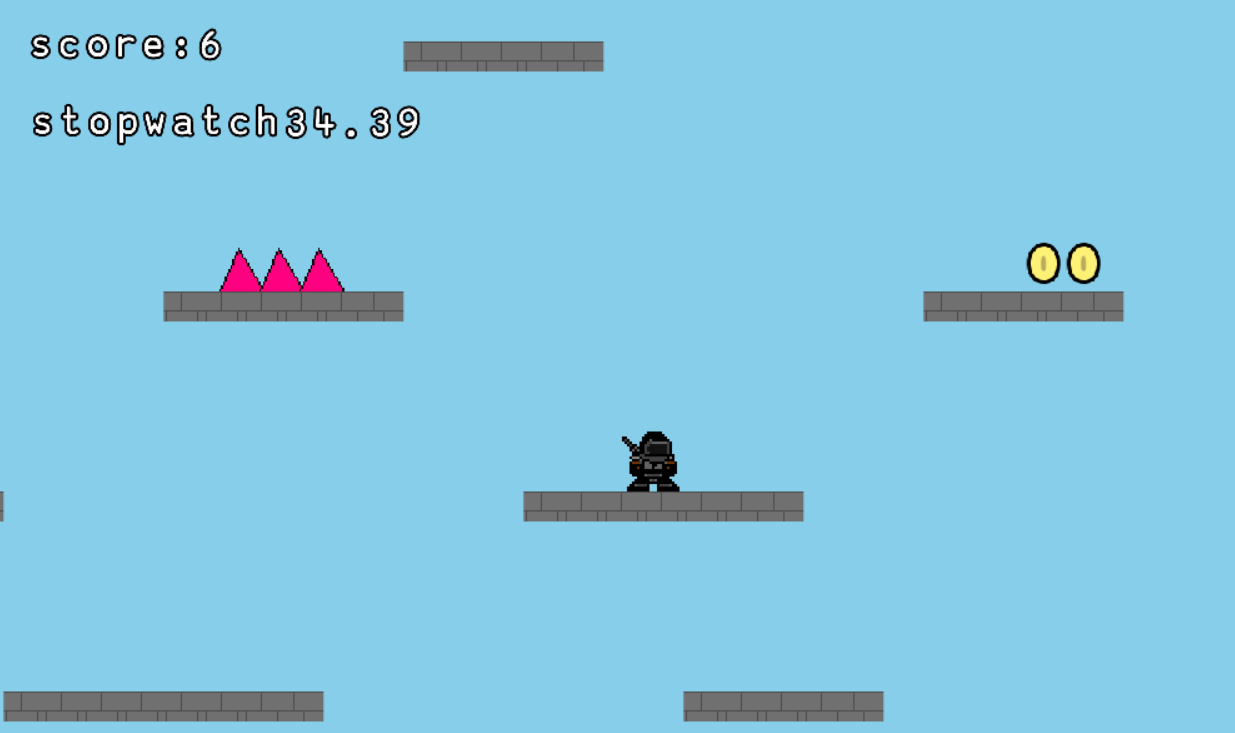
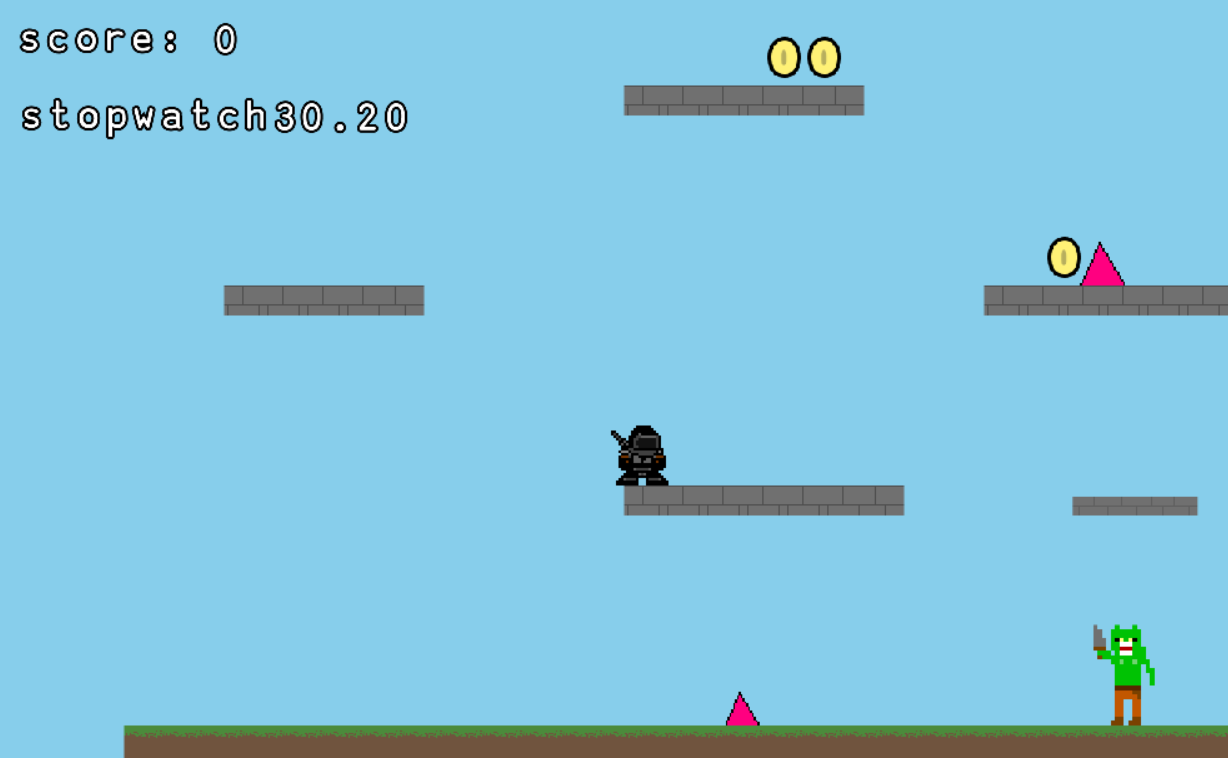
GitBook: [#603] No subject

diff --git a/4-evaluation/4.1-evaluation-of-success-criteria.md b/4-evaluation/4.1-evaluation-of-success-criteria.md
@@ -8,11 +8,11 @@
 | -------- | ------------------------------------------------------------------------- | ----------------------------------------------------------------------------------------------------------------------------------------------------------------------------------------------------------------------------------------------------------------------------------------- | --------------------------------------- |
 | 1        | Platforms                                                                 | This is to provide the player with a path to get to the exit whilst avoiding obstacles and have varying length to add complexity to the game                                                                                                                                              | Achieved in cycle 1                     |
 | 2        | A minimum of 5 levels of equal size                                       | This is to provide the player a joyful gaming experience                                                                                                                                                                                                                                  | Not achieved                            |
-| 3        | The levels get progressively more difficult                               | By making the levels progressively more difficult, it provides the player more of a challenge to get to the exit as well as not making the game trivial, which allows for more fun                                                                                                        | Achieved in cycle 7 , usability testing |
-| 4        | The moving platforms should enable the player to move between platforms   | By adding a moving platform, the game  provides the player with more of a risk factor such that if the player misses the jump on to or when jumping off it the player can fall and die                                                                                                    | Achieved in cycle 9                     |
+| 3        | The levels get progressively more difficult                               | By making the levels progressively more difficult, it provides the player more of a challenge to get to the exit as well as not making the game trivial, which allows for more fun                                                                                                        | Achieved in cycle 8 , usability testing |
+| 4        | The moving platforms should enable the player to move between platforms   | By adding a moving platform, the game  provides the player with more of a risk factor such that if the player misses the jump on to or when jumping off it the player can fall and die                                                                                                    | Achieved in cycle 6                     |
 | 5        | Break away platforms                                                      | By adding break away platforms the player will not be given the opportunity to spend an excessive amount of time on one platform thus making the player think on their feet on what their next move is going to be                                                                        | It was not Achieved                     |
-| 6        | Have a portal/exit  to take the player to the next level                  | The justification for a portal to next level is for a simplification factor. By having portals it makes it an easier transition to the next level instead of exiting the game and going to a new level. This provides the player with a better game play experience without the hindrance | Achieved in cycle 6                     |
-| 7        | the level should have enemies                                             | These will be progressively introduced into the levels where they appear spontaneously at specific areas of the levels. This is to provide the player with additional obstacles / challenges to overcome whilst playing the game .                                                        | Achieved in cycle 5 and 7               |
+| 6        | Have a portal/exit  to take the player to the next level                  | The justification for a portal to next level is for a simplification factor. By having portals it makes it an easier transition to the next level instead of exiting the game and going to a new level. This provides the player with a better game play experience without the hindrance | Achieved in cycle 7                     |
+| 7        | the level should have enemies                                             | These will be progressively introduced into the levels where they appear spontaneously at specific areas of the levels. This is to provide the player with additional obstacles / challenges to overcome whilst playing the game .                                                        | Achieved in cycle 5 and 8               |
 
 ###
 
@@ -53,8 +53,8 @@ This criterion has been achieved in cycle 7 where the enemy is introduced. The o
 | 8        | Having simple controls  | By having simple control (such as W,A,S,D) it will make it easy to understand movement of the  character which means that more time can be spent playing the game instead of learning the controls             | This was achieved in cycle 1           |
 | 9        | Scrolling camera        | When the player is moving in any direction the camera should keep the player in frame and make sure that the player does not go off the screen                                                                 | This was achieved in cycle 2           |
 | 10       | Double jump             | The game should have double jump to allow the player to get to the next platform whilst being able to avoid the obstacles                                                                                      | This was achieved in cycle 1           |
-| 11       | Player collision        | When the player comes in contact with an obstacle or an enemy the player should take damage to their health, subsequently leading to death if they undergo too many collisions                                 | This was achieved in cycle 2,3,5 and 6 |
-| 12       | Gravity                 | This is to provide the game with more of a realistic factor which will improve the game experience of the player                                                                                               | This was achieved in cycle 1 and 8     |
+| 11       | Player collision        | When the player comes in contact with an obstacle or an enemy the player should take damage to their health, subsequently leading to death if they undergo too many collisions                                 | This was achieved in cycle 2,3,5 and 7 |
+| 12       | Gravity                 | This is to provide the game with more of a realistic factor which will improve the game experience of the player                                                                                               | This was achieved in cycle 1 and 9     |
 | 13       | Coins system            | The player should be able to collect the coins during playing the level and the coins collected should be displayed whilst playing the game. This will be done when the player comes in contact with the coins | This was achieved in cycle 2           |
 | 14       | Health bar              | The health bar is used to indicate the player at what stage of health their character is at. This means that the player can be more cautious to not collide with objects (e.g spikes)                          | This was not  achieved                 |
 {% endtab %}
@@ -100,11 +100,11 @@ The health bar was included as a way for players to see the state of the charact
 {% tab title="First Tab" %}
 |    |                                                     |                                                                                                                                                                                          | when was it achieved                                 |
 | -- | --------------------------------------------------- | ---------------------------------------------------------------------------------------------------------------------------------------------------------------------------------------- | ---------------------------------------------------- |
-| 15 | Simple Menu                                         | When the player enters the game they should be presented with a simple menu that gives the option to play the game or tell the player the rules                                          | This was achieved in cycle 8 and 10                  |
+| 15 | Simple Menu                                         | When the player enters the game they should be presented with a simple menu that gives the option to play the game or tell the player the rules                                          | This was achieved in cycle 9 and 10                  |
 | 16 | Pause button                                        | The addition of a pause button during the game enables the player to take a break and rejoin when the player feels like it                                                               | This was not achieved                                |
 | 17 | Stopwatch                                           | By having an optional stopwatch, the player can be able to see how fast they can complete the level. This also gives the player some incentive to do better than before by trying again  | This was achieved in cycle 4                         |
 | 18 | A background that appeals to the player             | By adding a background that is welcoming, a better gaming experience is provided                                                                                                         | This was achieved in cycle 1  and usability testing  |
-| 19 | Game scene when the player wins and loses (or dies) | This allows the player to know whether they have completed the game or if they should retry it and give the player option to do so                                                       | This was achieved in cycles 6 and 9                  |
+| 19 | Game scene when the player wins and loses (or dies) | This allows the player to know whether they have completed the game or if they should retry it and give the player option to do so                                                       | This was achieved in cycles 7 and 9                  |
 {% endtab %}
 {% endtabs %}
 

diff --git a/design-and-development/cycle-1-5.md b/design-and-development/cycle-1-5.md
@@ -33,13 +33,31 @@ Another objective for this cycle is to add an acid bath. The acid bath uses the 
 ### Pseudocode
 
 ```
+function mp(speed = 100, dis = 10, dir = 1) {
+
+  return {
+    id: "mp",
+    require: ["pos", "area",],
+    add() {
+      this.on("collide", (obj, col) => {
+        if (col.isLeft() || col.isRight()) {
+          dir = -dir
+        }
+      })
+    },
+    update() {
+      this.move(speed * dir, 0)
+
+    },
+  }
+}
 ```
 
 ## Development
 
 ### Outcome
 
-Since the premise of the moving platform is to have platforms to move from left to right and back I decided to save time by using the same code that was used for the enemy cycles with the only alteration by that the speed with it moves and the distance as well. If you were to compare the two components you find that the moving platform has a fast speed, set at 100, to help the player to beat the clock that otherwise the player could find that by not using the moving platform they could complete the level faster. An additional feature that the enemy does not have is a distant component to the moving platform, this would limit the area the platform can cover to prevent the moving platform going of the game screen. This enabled me to create the moving platform function ("mp" for the variable name).&#x20;
+Since the premise of the moving platform is to have platforms to move from left to right and back I decided to save time by using the same code that was used for the enemy cycles with the only alteration by that the speed with it moves and the distance as well. If you were to compare the two components you find that the moving platform has a fast speed, set at 100, to help the player to beat the clock that otherwise the player could find that by not using the moving platform they could complete the level faster. An additional feature that the enemy does not have is a distance component to the moving platform, this would limit the area the platform can cover to prevent the moving platform going of the game screen. This enabled me to create the moving platform function ("mp" for the variable name).&#x20;
 
 <pre class="language-javascript"><code class="lang-javascript"><strong>// mp = moving platfrom 
 </strong><strong>function mp(speed = 100, dis = 10, dir = 1) {
@@ -108,7 +126,9 @@ As part of the success criteria it was mentioned to have different types of obst
 
 ### Challenges
 
-Description of challenges
+When doing some testing, I realised that the moving platform was not able to get from one point to the other point; this was primarily due to a missing function. Once I realised what the issue was I added a distance ( dis ) to the mp function. This ultimately fixed the issue thus allowing the moving platform to make it to both set points.
+
+
 
 ## Testing
 
@@ -120,7 +140,7 @@ Evidence for testing
 
 | Test | Instructions          | What I expect                                                                                                                                    | What actually happens                                                                                                                                                                                                                                                                               | Pass/Fail |
 | ---- | --------------------- | ------------------------------------------------------------------------------------------------------------------------------------------------ | --------------------------------------------------------------------------------------------------------------------------------------------------------------------------------------------------------------------------------------------------------------------------------------------------- | --------- |
-| 1    | Run code              | When the platforms move they should move from left to right and once they come in contact with the solid platform they should go the other way   | The platform works but not in the expected way. This is because when the platform moves from left to right it goes through the solid platfrom instead of bouncing back and going the way it came                                                                                                    | Fail      |
+| 1    | Run code              | When the platforms move they should move from left to right and once they come in contact with the solid platform they should go the other way   | The platform works but not in the expected way. This is because when the platform moves from left to right it goes through the solid platform instead of bouncing back and going the way it came                                                                                                    | Fail      |
 |      |                       | When the platform moves, they should move from left to right and once they come in contact with the solid platform, they should go the other way | After the first test failed I went into the code of the moving platform I found that I did not include the solid() function which allows the moving platform to be known as a solid. Once it was added, the platform goes left and right as expected                                                | Pass      |
 |      | Run code with player  | For this test, I wanted to see how the platform interacts with the player                                                                        | Through the test I found that there is bug with the platform. In which the player can make contact with the side of the moving platform as a substitute for the solid platform and the moving platform would think it had made contact with a solid platform.                                       | Fail      |
 |      | Run code with player  | For this test, I wanted to see how the platform interacts with the player                                                                        | When doing the last test I found a bug (mentioned in test 3). However whilst conducting other tests on the moving platform the result of it was fine as it allowed the player to jump on it as well move around on it with out causing any direct issue to the moving platform whilst in operation  | Pass      |
@@ -131,4 +151,4 @@ Evidence for testing
 
 <figure><img src="../.gitbook/assets/image (27).png" alt=""><figcaption></figcaption></figure>
 
-![](<../.gitbook/assets/image (3).png>)
+<figure><img src="../.gitbook/assets/image (3).png" alt=""><figcaption></figcaption></figure>

diff --git a/design-and-development/cycle-1-8.md b/design-and-development/cycle-1-8.md
@@ -26,10 +26,10 @@ Additionally, the second aim that I have for this cycle is to add a death scene 
 
 ### Key Variables
 
-| Variable Name | Use                                                                                                                                                                               |
-| ------------- | --------------------------------------------------------------------------------------------------------------------------------------------------------------------------------- |
-| 2000          | This is a const variable that is used as a benchmark for the falling death feature in which if the player falls below 2000 the pixle  mark the lose scene is shown to the player  |
-|               |                                                                                                                                                                                   |
+| Variable Name | Use                                                                                                                                                                            |
+| ------------- | ------------------------------------------------------------------------------------------------------------------------------------------------------------------------------ |
+| 2000          | This is a const variable  is used as a benchmark for the falling death feature in which if the player falls below 2000 the pixles  mark the lose scene is shown to the player  |
+|               |                                                                                                                                                                                |
 
 ### Pseudocode
 
@@ -102,7 +102,7 @@ To enable the player to get main menu i have Incorporated a click button via the
 
 ### Challenges
 
-
+A small challenge I faced during the testing of the falling death feature was that the falling death was not timed correctly , in which that player could jump off a platform onto a lower platform of a short distance and they could die or the player could die after a long time if they jumped off the level . To solve this I change the const variable value in increments of 100 until I find the correct value that enables the player to die after going below the ground or falling for a long time.
 
 ## Testing
 
@@ -110,11 +110,11 @@ Evidence for testing
 
 ### Tests
 
-| Test | Instructions   | What I expect                                                                                                                           | What actually happens                                                                                                                                                              | Pass/Fail |
-| ---- | -------------- | --------------------------------------------------------------------------------------------------------------------------------------- | ---------------------------------------------------------------------------------------------------------------------------------------------------------------------------------- | --------- |
-| 1    | Falling death  | When the player falls outside of the level the player should die and the death screen should show after a certain distance of falling.  | When the player strays too far away from the level, they will die after a short distance.                                                                                          | Fail      |
-| 2    | Falling death  | When the player falls outside of the level the player should die and the death screen should show after a certain distance of falling.  | When the player jumps off the level, the player is dead when they go below the base floor of the game as well as that the player will die if they are falling for a long distance. | Pass      |
-| 3    | Death scene    | When the player collides with a dangerous object, the death screen should appear.                                                       | When the player dies the death screen appears.                                                                                                                                     | Pass      |
+| Test | Instructions   | What I expect                                                                                                                           | What actually happens                                                                                                                                                     | Pass/Fail |
+| ---- | -------------- | --------------------------------------------------------------------------------------------------------------------------------------- | ------------------------------------------------------------------------------------------------------------------------------------------------------------------------- | --------- |
+| 1    | Falling death  | When the player falls outside of the level the player should die and the death screen should show after a certain distance of falling.  | When the player strays too far away from the level, they will die after a short distance.                                                                                 | Fail      |
+| 2    | Falling death  | When the player falls outside of the level the player should die and the death screen should show after a certain distance of falling.  | When the player jumps off the level, the player is dead when they go below the base floor of the game as well as that the player will die if they are falling for a long  | Pass      |
+| 3    | Death scene    | When the player collides with a dangerous object, the death screen should appear.                                                       | When the player dies the death screen appears.                                                                                                                            | Pass      |
 
 ### Evidence
 

diff --git a/design-and-development/cycle-1-4.md b/design-and-development/cycle-1-4.md
@@ -73,7 +73,7 @@ Once the enemy was added to the game it was needed for the enemy have a purpose 
 
 
 ```javascript
-function patrol(speed =75 , dir = 1) {
+function patrol(speed =75 ,dis= 16 , dir = 1) {
 
 	return {
 		id: "patrol",
@@ -116,7 +116,7 @@ With the new feature developed I proceeded to incorporate everything together in
 
 ### Challenges
 
-One of the challenges I have encountered is&#x20;
+One of the challenges I encountered whilst implementing the enemy into my game was that the enemy would fall off the platform whilst in testing . I overcame these challenges in two ways . One way was to shorten the distant the enemy travels this had worked successfully whilst the second was done in a create way in which i created on pixel block that would be place exactly where i want the enemy to stop and turn around however one floor i found this method was that the player would be affected by the small block when trying to jump onto the platform the block would run the risk of stop the player trying to get one  therefore i discontinued the second idea.&#x20;
 
 ### Evidence
 
@@ -126,9 +126,10 @@ Evidence for testing
 
 ### Tests
 
-| Test | Instructions | What I expect                                                | What actually happens                                                                                    | Pass/Fail |
-| ---- | ------------ | ------------------------------------------------------------ | -------------------------------------------------------------------------------------------------------- | --------- |
-| 1    | The  bot     | The bot should move between two boundaries                   | The bot moves between the set boundaries                                                                 | pass      |
-| 2    | The bot      | The bot should flip its body when it is changing directions  | The bot moves left and right but when it changes directions it does not move the way the body is facing  | fail      |
+| Test | Instructions                    | What I expect                                                                                                                                                       | What actually happens                                                                                                                                                                                    | Pass/Fail |
+| ---- | ------------------------------- | ------------------------------------------------------------------------------------------------------------------------------------------------------------------- | -------------------------------------------------------------------------------------------------------------------------------------------------------------------------------------------------------- | --------- |
+| 1    | run the code                    | the to appear where it is placed on the map as well has eleimate the player if the player comes in contect with the enemy                                           | the player gets eliminated by the enemy when contact is made as well a the enemy appear on the selected location.                                                                                        | pass      |
+| 2    | movement run test               | after the basics of the enemy is established, i am now test if the enemy will move from in the designated area . such as a patrol of the area                       | the enemy moves around . However the enemy when placed on a platform the enemy falles if the platform                                                                                                    | fail      |
+| 3    | movement run test ( second try) | after the basics of the enemy is established, i am now test if the enemy will move from in the designated area in a specific pattern . such as a patrol of the area | After seen the failiure of the fisrt test i went back to the code and altered the distant that the enemy can travel once that was done the enemy can movie around on the platform with out falling of it | pass      |
 
 ![](<../.gitbook/assets/image (8).png>)

diff --git a/design-and-development/cycle-1-3.md b/design-and-development/cycle-1-3.md
@@ -72,7 +72,7 @@ there is not much different between when adding the output read out function for
 
 ### Challenges
 
-One of the challenges that I faced during the implant of the stopwatch is correctly positioning the stopwatch meter on the screen so that the player can see the stopwatch easily. I overcame this by adjusting the size of the font that was used and adjusting the positions of it as well as placing the stopwatch below another instrument that was displayed to the player. &#x20;
+One of the challenges that I faced during the implant of the stopwatch is correctly positioning the stopwatch meter on the screen so that the player can see the stopwatch easily. I overcame this by adjusting the size of the font that was used and adjusting the positions of it as well as placing the stopwatch below another instrument that was displayed to the player. Additional one challenge i am still facing is one where there is no space between the word "stopwatch " and the counter .i still yet to see a fix to this solution i may be a simple fix.
 
 ## Testing
 
@@ -80,10 +80,10 @@ I tested if the spike worked by colliding with a spike, this resulted in the pla
 
 ### Tests
 
-| Test | Instructions      | What I expect                                                                                                                                                                                                       | What actually happens                                                                                                                                      | Pass/Fail |
-| ---- | ----------------- | ------------------------------------------------------------------------------------------------------------------------------------------------------------------------------------------------------------------- | ---------------------------------------------------------------------------------------------------------------------------------------------------------- | --------- |
-| 1    | Added the spikes  | The spikes will function in a manner where when the player comes in contact with the spikes the player will take damage which will lead to death if the player comes in contact with it in more than one occasion.  | The spikes were added successfully  however when the player comes in contact with the spikes the player does not take any damages to the player's health.  | Fail      |
-| 2    | Stopwatch         | When the player starts the game the stopwatch will start and once the player has completed he game by finishing the level the stop watch will stop.                                                                 | The stopwatch worked as expected.                                                                                                                          | Pass      |
+| Test | Instructions        | What I expect                                                                                                                                       | What actually happens                                                                                                | Pass/Fail |
+| ---- | ------------------- | --------------------------------------------------------------------------------------------------------------------------------------------------- | -------------------------------------------------------------------------------------------------------------------- | --------- |
+| 1    | stopwatch appearing | when player start the game the stopwatch show appear in the designated location                                                                     | The stopwatch appears in the designated location however the when recording time it does not separated from the text | fail      |
+| 2    | Stopwatch working   | When the player starts the game the stopwatch will start and once the player has completed he game by finishing the level the stop watch will stop. | The stopwatch worked as expected.                                                                                    | Pass      |
 
 ### Evidence
 

diff --git a/2-design-and-development/cycle-1.md b/2-design-and-development/cycle-1.md
@@ -138,16 +138,16 @@ Once I had completed creating the essential assets I need for the game for the e
 
 ```javascript
 const map = [
-  '                                                                         @      ',
+  '                                                                              ',
   '         ppp              ppp                pp                         ppppp',
   '                                                                             ',
-  '                                                           ccc                 ',
+  '                                                                            ',
   '                                                          pppp                   ',
-  ' ppp            ppppp        j              ppp                               ',
+  ' ppp            ppppp                      ppp                               ',
   '                                                                             ',
   '                                                                             ',
-  '                     sccs             cscs                         ccssc           ',
-  '      pppp          ppppp           ppppp          a        ppppppppppppp   ',
+  '                                                                            ',
+  '      pppp          ppppp           ppppp                  ppppppppppppp   ',
   '                                                                             ',
   '                                                                             ',
   '                                                   pppp                          ',
@@ -156,20 +156,20 @@ const map = [
   ' pppp                                                                        ',
   '                                                                             ',
   '                                                                             ',
-  '                cc               ss                  sss                ccc     ',
+  '                                                                              ',
   '             ppppp             ppppp                ppppp              pppp ',
   '                                                                             ',
   '                                                                              ',
-  '                       cs                   ss                                   ',
+  '                                                                             ',
   '   pppp               pppppp             pppppp              pppppp         ',
   '                                                                              ',
   '                                                                             ',
   '                                                                             ',
-  '             pppppp           m                 ppppppp          pppp      ',
+  '             pppppp                            ppppppp          pppp      ',
   '                                                                             ',
   '                                                                             ',
   '                                                                             ',
-  '               s            e    s                             e          s   ',
+  '                                                                         ',
   '============================================================================',
 ]
 
@@ -290,5 +290,4 @@ The challenge of this cycle was setting up a movement feature for the first char
 
 ### Evidence
 
-![](<../.gitbook/assets/image (1).png>)
-
+<figure><img src="../.gitbook/assets/image (1).png" alt=""><figcaption></figcaption></figure>

diff --git a/design-and-development/cycle-1-6.md b/design-and-development/cycle-1-6.md
@@ -105,10 +105,11 @@ Evidence for testing
 
 ### Tests
 
-| Test | Instructions                  | What I expect                                                                         | What actually happens  | Pass/Fail |
-| ---- | ----------------------------- | ------------------------------------------------------------------------------------- | ---------------------- | --------- |
-| 1    | The portal to the next level  | When the player goes through the portal the player should be taken to the next level  | Does what is mentioned | pass      |
-| 2    |                               |                                                                                       |                        | Pass      |
+| Test | Instructions                  | What I expect                                                                                                                                             | What actually happens  | Pass/Fail |
+| ---- | ----------------------------- | --------------------------------------------------------------------------------------------------------------------------------------------------------- | ---------------------- | --------- |
+|      | run code                      | the portal should appear above the platform                                                                                                               | does what is mentioned | pass      |
+| 1    | The portal to the next level  | When the player goes through the portal the player should be taken to the next level                                                                      | Does what is mentioned | pass      |
+| 2    | death scene                   | when the player dies in the game a death scene should appear  to let the player know they have died as well as give a option to go back to the start menu |                        | Pass      |
 
 ### Evidence
 

diff --git a/design-and-development/cycle-1-9.md b/design-and-development/cycle-1-9.md
@@ -154,6 +154,8 @@ Once I had created the main menu, I proceeded to create a scene for the second o
 
 ## Description of challenges
 
+during the coding for the main menu i faced a challenge that was later resolved. This was when the player click on a option and the menu takes the player to the wrong scene . for example when clicking the " how to play here " it would take the player to the game it self and vice versa . I solved this by swapping the scene names this resulted  in the main menu functioning correctly. &#x20;
+
 ## Testing
 
 

diff --git a/design-and-development/cycle-1-7.md b/design-and-development/cycle-1-7.md
@@ -127,7 +127,7 @@ To complete this cycle the player should be able to go from one level to another
 
 ### Challenges
 
-Description of challenges
+
 
 ## Testing
 
